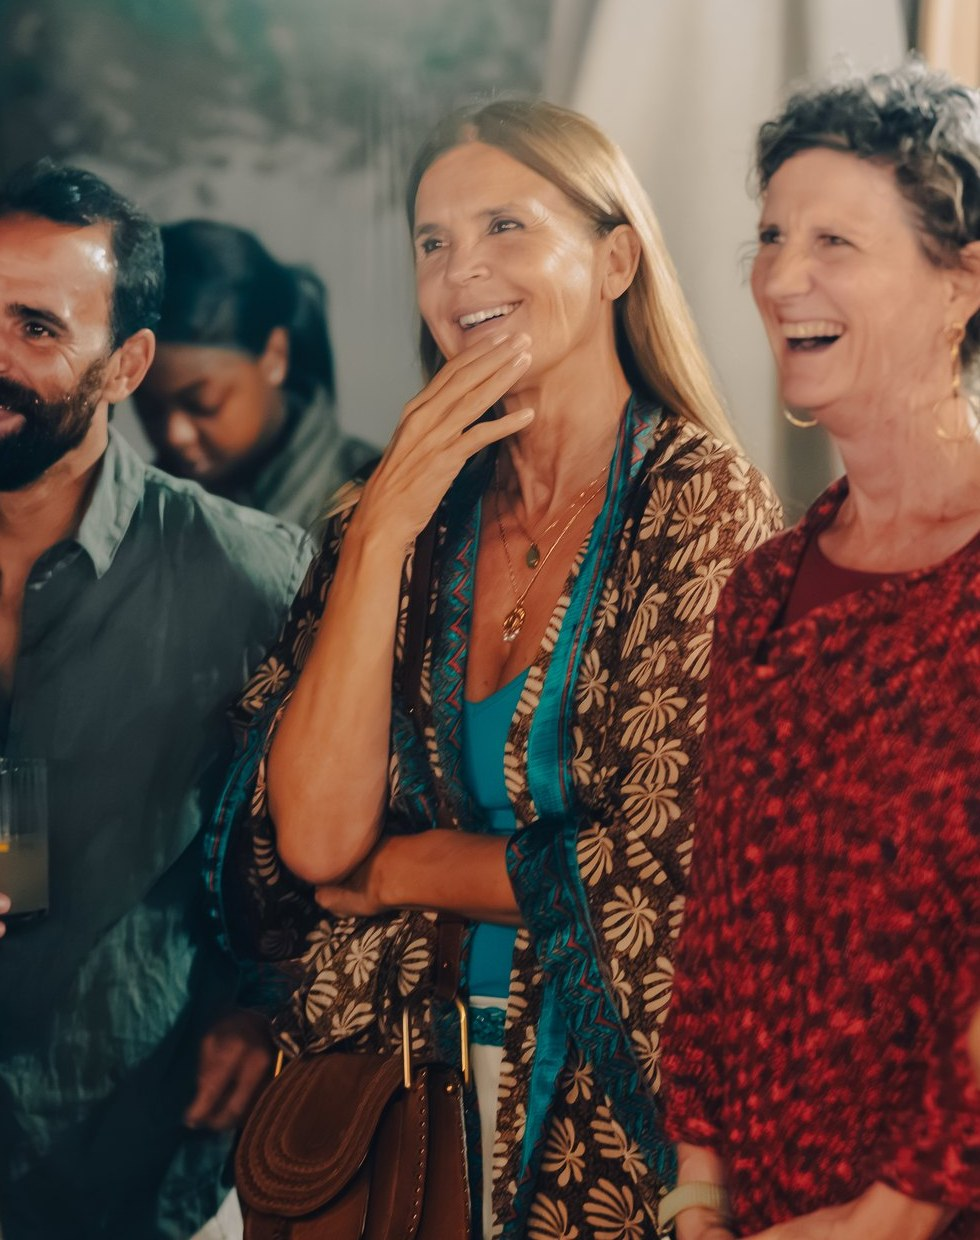
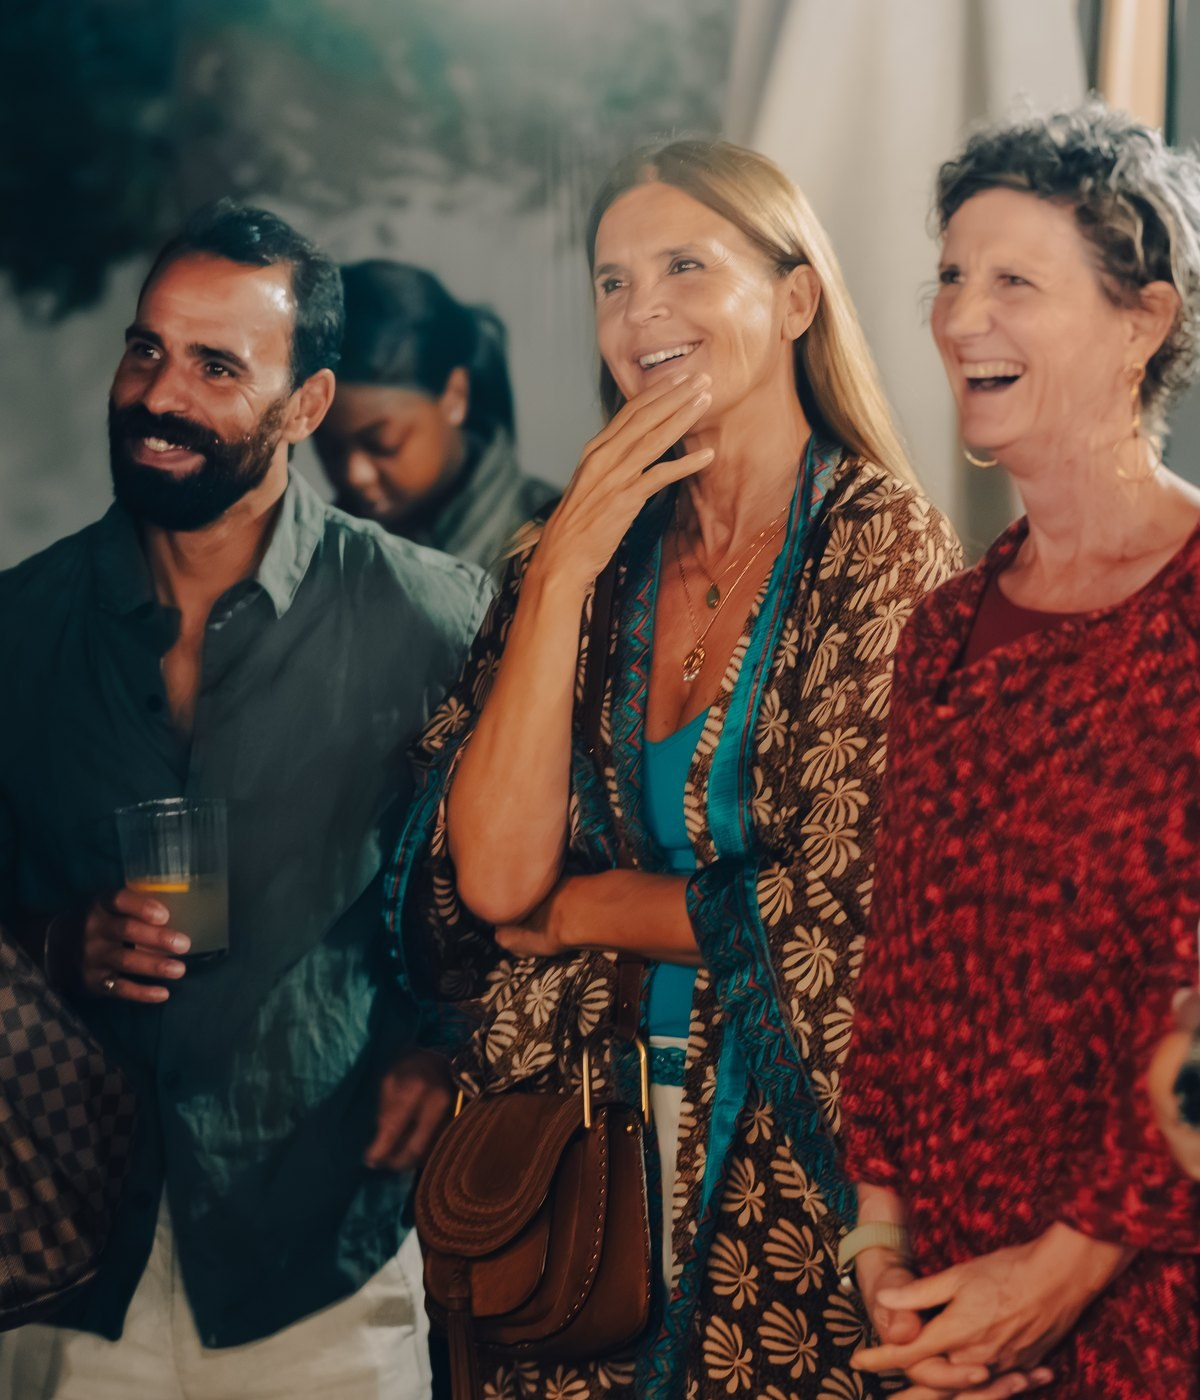
Include the man fully in the mobile homepage hero.
Widen the phone crop so his face, shoulder and glass stay in the frame.

diff --git a/index.html b/index.html
@@ -21,7 +21,7 @@
 <meta name="twitter:image" content="https://thegoodspan.com/assets/img/home-hero.jpg?v=20261105b"/>
 <link rel="icon" href="/assets/img/favicon.png?v=20261102" type="image/png"/>
 <link rel="apple-touch-icon" href="/assets/img/favicon.png?v=20261102"/>
-<link rel="stylesheet" href="/assets/css/styles.css?v=20261105e"/>
+<link rel="stylesheet" href="/assets/css/styles.css?v=20261105f"/>
 <script type="application/ld+json">
 {
   "@context": "https://schema.org",
@@ -70,7 +70,7 @@
 <main data-title="The Good Span" id="page-home">
 <div style="background: #fff2ea; color: #4d2831; font-family: var(--font-display); min-width: 0; overflow: hidden">
 <header class="gs-header"><nav aria-label="Main" class="gs-header__nav"><a class="gs-header__link" href="/how-it-works/">How it works</a><a class="gs-header__link" href="/memberships/">Memberships</a><a class="gs-header__link" href="/evidence/">Evidence</a><a class="gs-header__link" href="/about/">About</a></nav><a class="gs-header__logo" href="/"><img alt="The Good Span. More years that matter." src="/assets/img/logo-header.svg"/></a><div class="gs-header__cta"><a class="gs-btn gs-btn--primary gs-btn--nav" href="/find-your-good-span/">Find your Good Span</a></div><button type="button" class="tgs-burger" aria-expanded="false" aria-controls="menu-home" aria-label="Open menu"><span></span><span></span><span></span></button></header><nav aria-label="Main" class="tgs-menu" id="menu-home"><a class="tgs-menu__link" href="/how-it-works/">How it works</a><a class="tgs-menu__link" href="/memberships/">Memberships</a><a class="tgs-menu__link" href="/evidence/">Evidence</a><a class="tgs-menu__link" href="/about/">About</a><a class="gs-btn gs-btn--primary tgs-menu__cta" href="/find-your-good-span/">Find your Good Span</a></nav>
-<section class="gs-hero gs-hero--split"><div class="gs-hero__media"><picture><source media="(max-width: 900px)" srcset="/assets/img/home-hero-mobile.jpg?v=20261105e"/><img alt="Friends laughing together at a gathering." src="/assets/img/home-hero.jpg?v=20261105b" class="tgs-hero-home"/></picture></div><div class="gs-hero__panel"><div class="gs-hero__text"><h1 class="gs-hero__title">More years <br/>that matter.</h1><div class="gs-hero__lead"><p>The Good Span is a human-guided, habit-driven longevity membership that brings together science, technology and the people you share it with.</p><p>Start with a free personal evaluation across six connected dimensions: nutrition, sleep, movement, mind, connection and prevention.</p><p>Discover your Good Span, a personalised six-month longevity journey that starts with practices chosen for you and evolves as you progress.</p><p>Meet your Pilot, a trained human longevity guide, to review your Good Span and choose together the membership that suits you best.</p></div><div class="gs-actions"><a class="gs-btn gs-btn--primary" href="https://evaluation.thegoodspan.com/" target="_blank" rel="noopener">Start Your Free Evaluation</a></div></div></div></section>
+<section class="gs-hero gs-hero--split"><div class="gs-hero__media"><picture><source media="(max-width: 900px)" srcset="/assets/img/home-hero-mobile.jpg?v=20261105f"/><img alt="Friends laughing together at a gathering." src="/assets/img/home-hero.jpg?v=20261105b" class="tgs-hero-home"/></picture></div><div class="gs-hero__panel"><div class="gs-hero__text"><h1 class="gs-hero__title">More years <br/>that matter.</h1><div class="gs-hero__lead"><p>The Good Span is a human-guided, habit-driven longevity membership that brings together science, technology and the people you share it with.</p><p>Start with a free personal evaluation across six connected dimensions: nutrition, sleep, movement, mind, connection and prevention.</p><p>Discover your Good Span, a personalised six-month longevity journey that starts with practices chosen for you and evolves as you progress.</p><p>Meet your Pilot, a trained human longevity guide, to review your Good Span and choose together the membership that suits you best.</p></div><div class="gs-actions"><a class="gs-btn gs-btn--primary" href="https://evaluation.thegoodspan.com/" target="_blank" rel="noopener">Start Your Free Evaluation</a></div></div></div></section>
 <section class="tgs-pad" style="background: #fff2ea; color: #4d2831; padding: 120px 72px; display: flex; flex-direction: column; gap: 72px"><div class="tgs-dims3"><figure style="margin: 0; display: flex; flex-direction: column; gap: 20px"><img loading="lazy" decoding="async" alt="Hands stirring a steaming pot of rice." src="/assets/img/d-nutrition.jpg" style="display: block; width: 100%; aspect-ratio: 4 / 3; object-fit: cover; border-radius: 40px"/><figcaption style="display: flex; align-items: center; gap: 16px"><span style="display: inline-flex; align-items: center; justify-content: center; width: 60px; height: 34px; border-radius: 999px; background: #fe600c; color: #000000; font-family: var(--font-ui); font-size: 11px">01</span><span style="font-weight: 300; font-size: 16px; line-height: 22px; letter-spacing: 0.04em; text-transform: uppercase">Nutrition</span></figcaption></figure><figure style="margin: 0; display: flex; flex-direction: column; gap: 20px"><img loading="lazy" decoding="async" alt="A man lying on a sofa, reading a book by a bright window." src="/assets/img/d-sleep.jpg" style="display: block; width: 100%; aspect-ratio: 4 / 3; object-fit: cover; border-radius: 40px"/><figcaption style="display: flex; align-items: center; gap: 16px"><span style="display: inline-flex; align-items: center; justify-content: center; width: 60px; height: 34px; border-radius: 999px; background: #d1e6e9; color: #000000; font-family: var(--font-ui); font-size: 11px">02</span><span style="font-weight: 300; font-size: 16px; line-height: 22px; letter-spacing: 0.04em; text-transform: uppercase">Sleep</span></figcaption></figure><figure style="margin: 0; display: flex; flex-direction: column; gap: 20px"><img loading="lazy" decoding="async" alt="A woman in pink gloves training at a punch bag." src="/assets/img/boxing.jpg" style="display: block; width: 100%; aspect-ratio: 4 / 3; object-fit: cover; border-radius: 40px; object-position: 72% center"/><figcaption style="display: flex; align-items: center; gap: 16px"><span style="display: inline-flex; align-items: center; justify-content: center; width: 60px; height: 34px; border-radius: 999px; background: #f5a4c2; color: #000000; font-family: var(--font-ui); font-size: 11px">03</span><span style="font-weight: 300; font-size: 16px; line-height: 22px; letter-spacing: 0.04em; text-transform: uppercase">Movement</span></figcaption></figure><figure style="margin: 0; display: flex; flex-direction: column; gap: 20px"><img loading="lazy" decoding="async" alt="A textile artist smiling as she stitches red thread at her table." src="/assets/img/d-mind.jpg" style="display: block; width: 100%; aspect-ratio: 4 / 3; object-fit: cover; border-radius: 40px"/><figcaption style="display: flex; align-items: center; gap: 16px"><span style="display: inline-flex; align-items: center; justify-content: center; width: 60px; height: 34px; border-radius: 999px; background: #cb863a; color: #000000; font-family: var(--font-ui); font-size: 11px">04</span><span style="font-weight: 300; font-size: 16px; line-height: 22px; letter-spacing: 0.04em; text-transform: uppercase">Mind</span></figcaption></figure><figure style="margin: 0; display: flex; flex-direction: column; gap: 20px"><img loading="lazy" decoding="async" alt="Two women of different generations walking arm in arm at golden hour, smiling at each other." src="/assets/img/d-connection.jpg" style="display: block; width: 100%; aspect-ratio: 4 / 3; object-fit: cover; border-radius: 40px"/><figcaption style="display: flex; align-items: center; gap: 16px"><span style="display: inline-flex; align-items: center; justify-content: center; width: 60px; height: 34px; border-radius: 999px; background: #4d2831; color: #fff2ea; font-family: var(--font-ui); font-size: 11px">05</span><span style="font-weight: 300; font-size: 16px; line-height: 22px; letter-spacing: 0.04em; text-transform: uppercase">Connection</span></figcaption></figure><figure style="margin: 0; display: flex; flex-direction: column; gap: 20px"><img loading="lazy" decoding="async" alt="A hand brushing through herbs in a rooftop garden." src="/assets/img/d-prevention.jpg" style="display: block; width: 100%; aspect-ratio: 4 / 3; object-fit: cover; border-radius: 40px"/><figcaption style="display: flex; align-items: center; gap: 16px"><span style="display: inline-flex; align-items: center; justify-content: center; width: 60px; height: 34px; border-radius: 999px; background: #000000; color: #fff2ea; font-family: var(--font-ui); font-size: 11px">06</span><span style="font-weight: 300; font-size: 16px; line-height: 22px; letter-spacing: 0.04em; text-transform: uppercase">Prevention</span></figcaption></figure></div></section>
 <section class="tgs-pad gs-on-alt" style="background: #d1e6e9; color: #4d2831; padding: 120px 72px; display: flex; flex-direction: column; gap: 72px"><h2 class="tgs-display" style="margin: 0; font-weight: 200; font-size: 56px; line-height: 62px; letter-spacing: -0.04em; max-width: 640px; padding-left: 0">How it works.</h2>
 <div class="tgs-steps"><article class="gs-step"><img loading="lazy" decoding="async" alt="A woman smiling as she reads a printed sheet of results." class="gs-step__img" src="/assets/img/step1.jpg"/><div class="gs-step__head"><span class="gs-step__num gs-step__num--pink">01</span><h3 class="gs-step__label">Starting Position</h3></div><p class="gs-step__body">A free evaluation shows where you are today across the six dimensions.</p></article><article class="gs-step gs-step--offset"><img loading="lazy" decoding="async" alt="A woman in an apron tasting from a spoon in her kitchen, smiling at the camera." class="gs-step__img" src="/assets/img/step2.jpg"/><div class="gs-step__head"><span class="gs-step__num gs-step__num--ochre">02</span><h3 class="gs-step__label">Your Good Span</h3></div><p class="gs-step__body">You start with science-backed practices, adapted to your goals and daily life.</p></article><article class="gs-step"><img loading="lazy" decoding="async" alt="Hands writing with a pen in an open notebook outdoors." class="gs-step__img" src="/assets/img/monthly-reviews.jpg"/><div class="gs-step__head"><span class="gs-step__num gs-step__num--plum">03</span><h3 class="gs-step__label">Monthly reviews</h3></div><p class="gs-step__body">Each month, you check how each practice is going and decide whether to keep it, build on it, change it or replace it.</p></article><article class="gs-step gs-step--offset"><img loading="lazy" decoding="async" alt="A person lying on coastal rocks beside the sea." class="gs-step__img" src="/assets/img/new-position.jpg?v=20261105c"/><div class="gs-step__head"><span class="gs-step__num gs-step__num--orange">04</span><h3 class="gs-step__label">New Position</h3></div><p class="gs-step__body">After six months, you see what has changed and choose where to focus next.</p></article></div>

diff --git a/assets/css/styles.css b/assets/css/styles.css
@@ -280,7 +280,7 @@ main[hidden] { display: none !important; }
   .gs-hero--split { grid-template-columns: minmax(0, 1fr) !important; min-height: 0 !important; }
   body .gs-hero--split .gs-hero__media { min-height: 460px; }
   /* Phone hero uses a tighter crop. Hold the faces while the wide frame trims the top and bottom. */
-  .gs-hero__media img.tgs-hero-home { object-position: center 28%; }
+  .gs-hero__media img.tgs-hero-home { object-position: center 18%; }
 }
 @media (max-width: 760px) {
   .gs-header { padding: 16px 24px; grid-template-columns: 1fr auto; }
